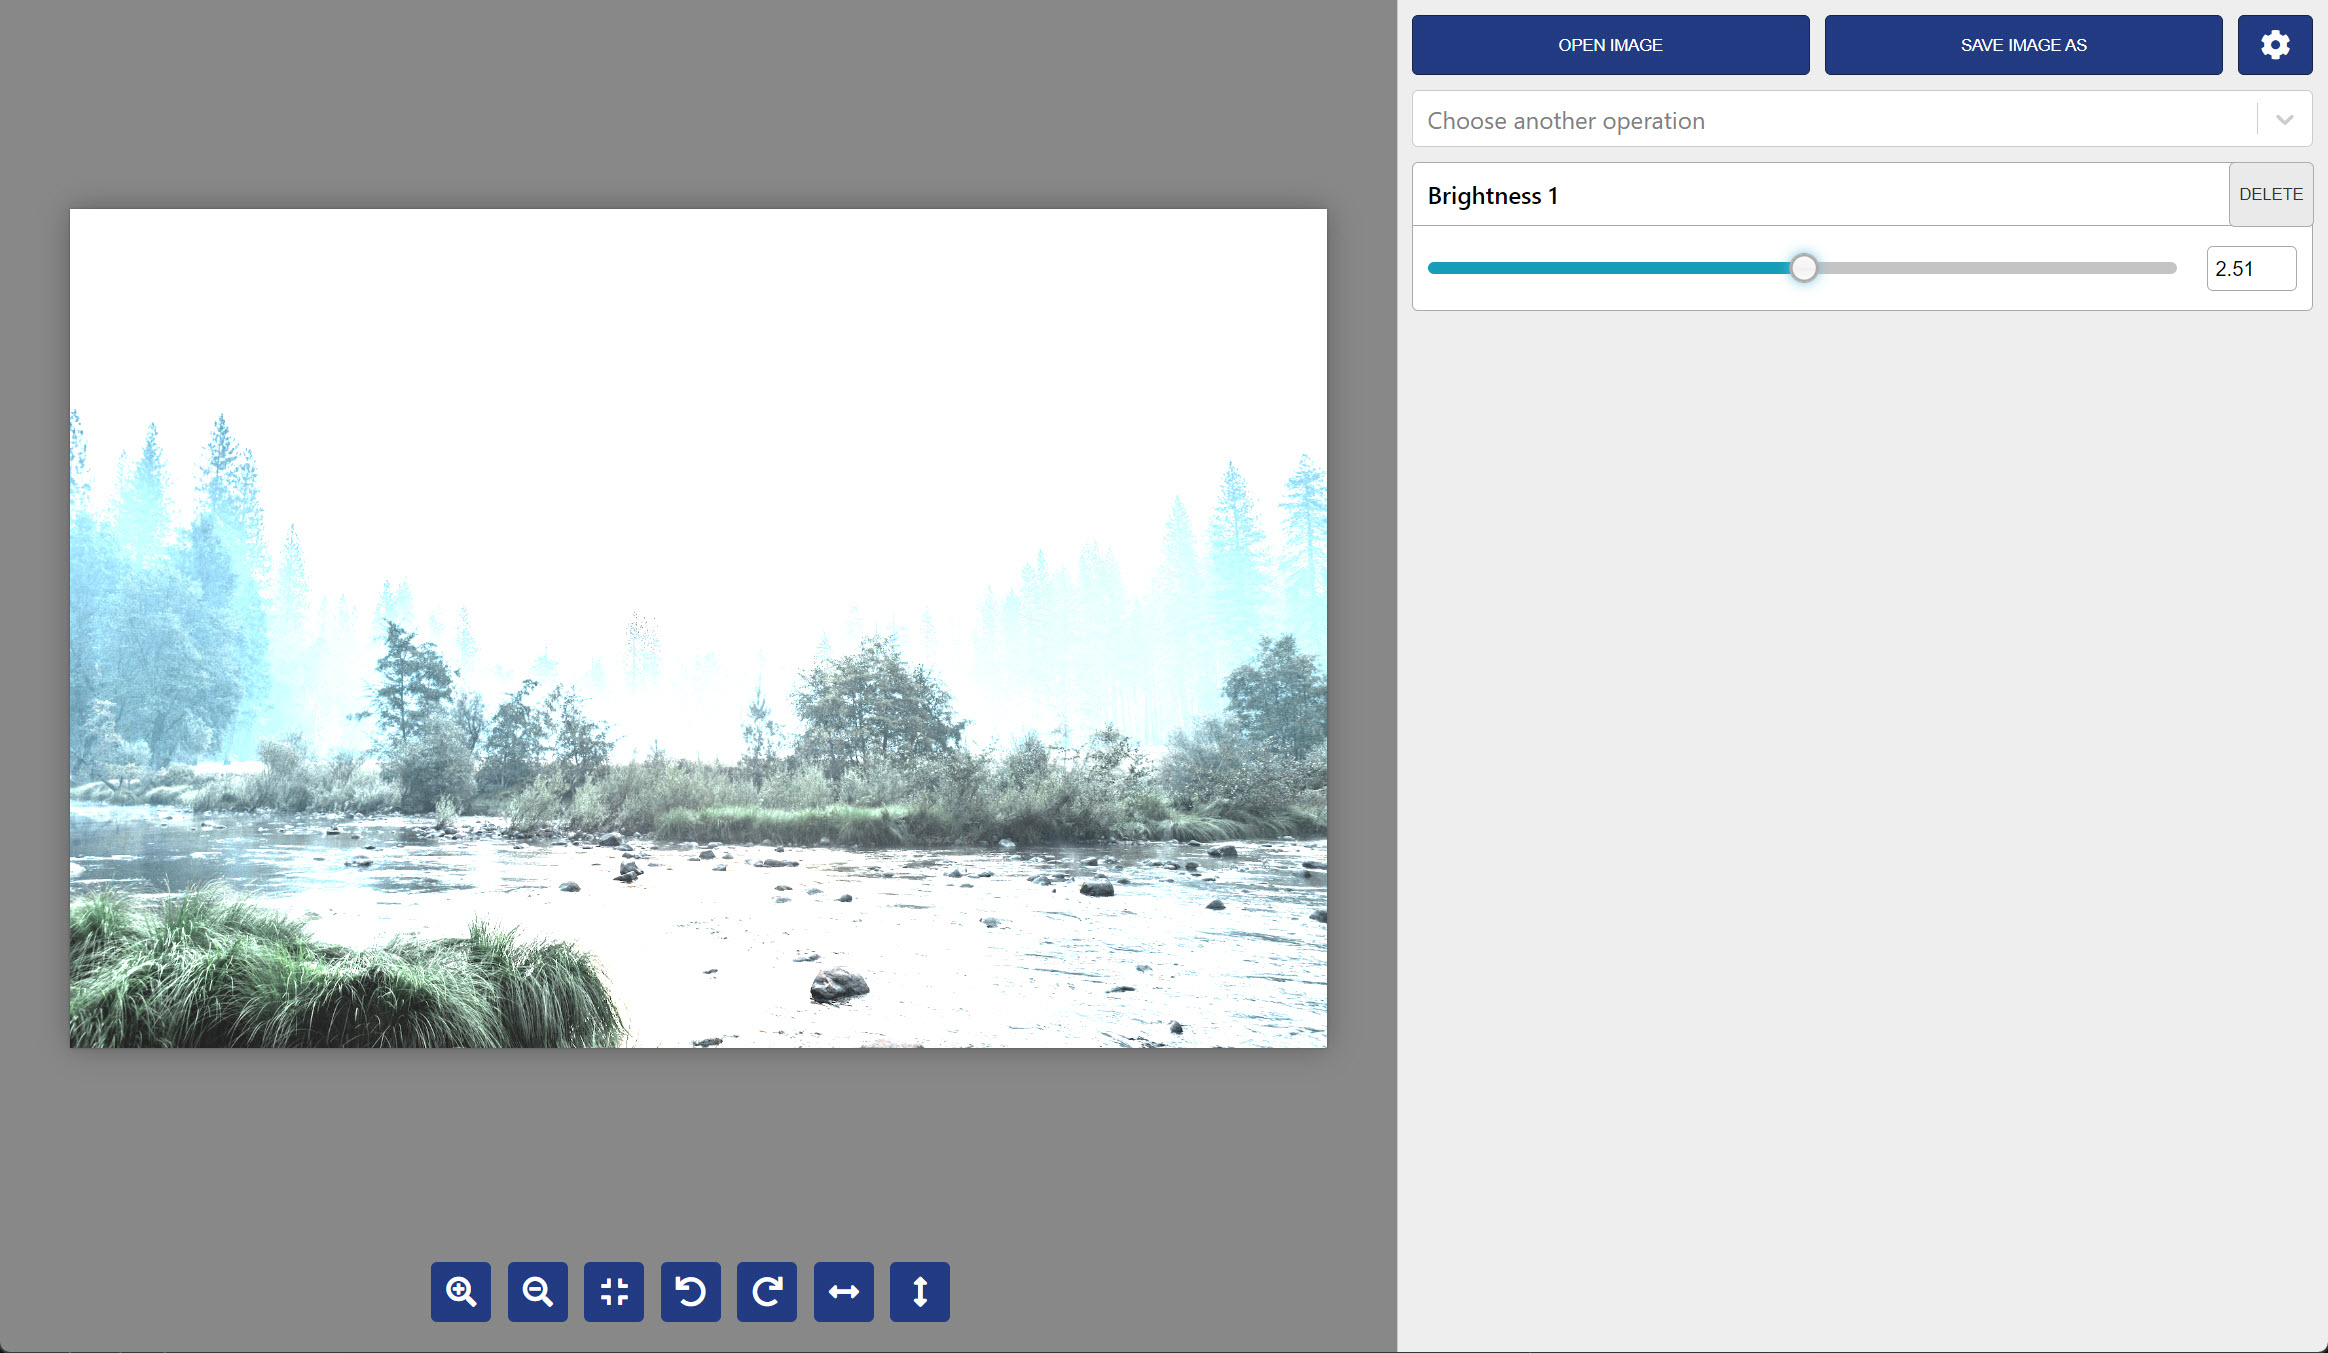
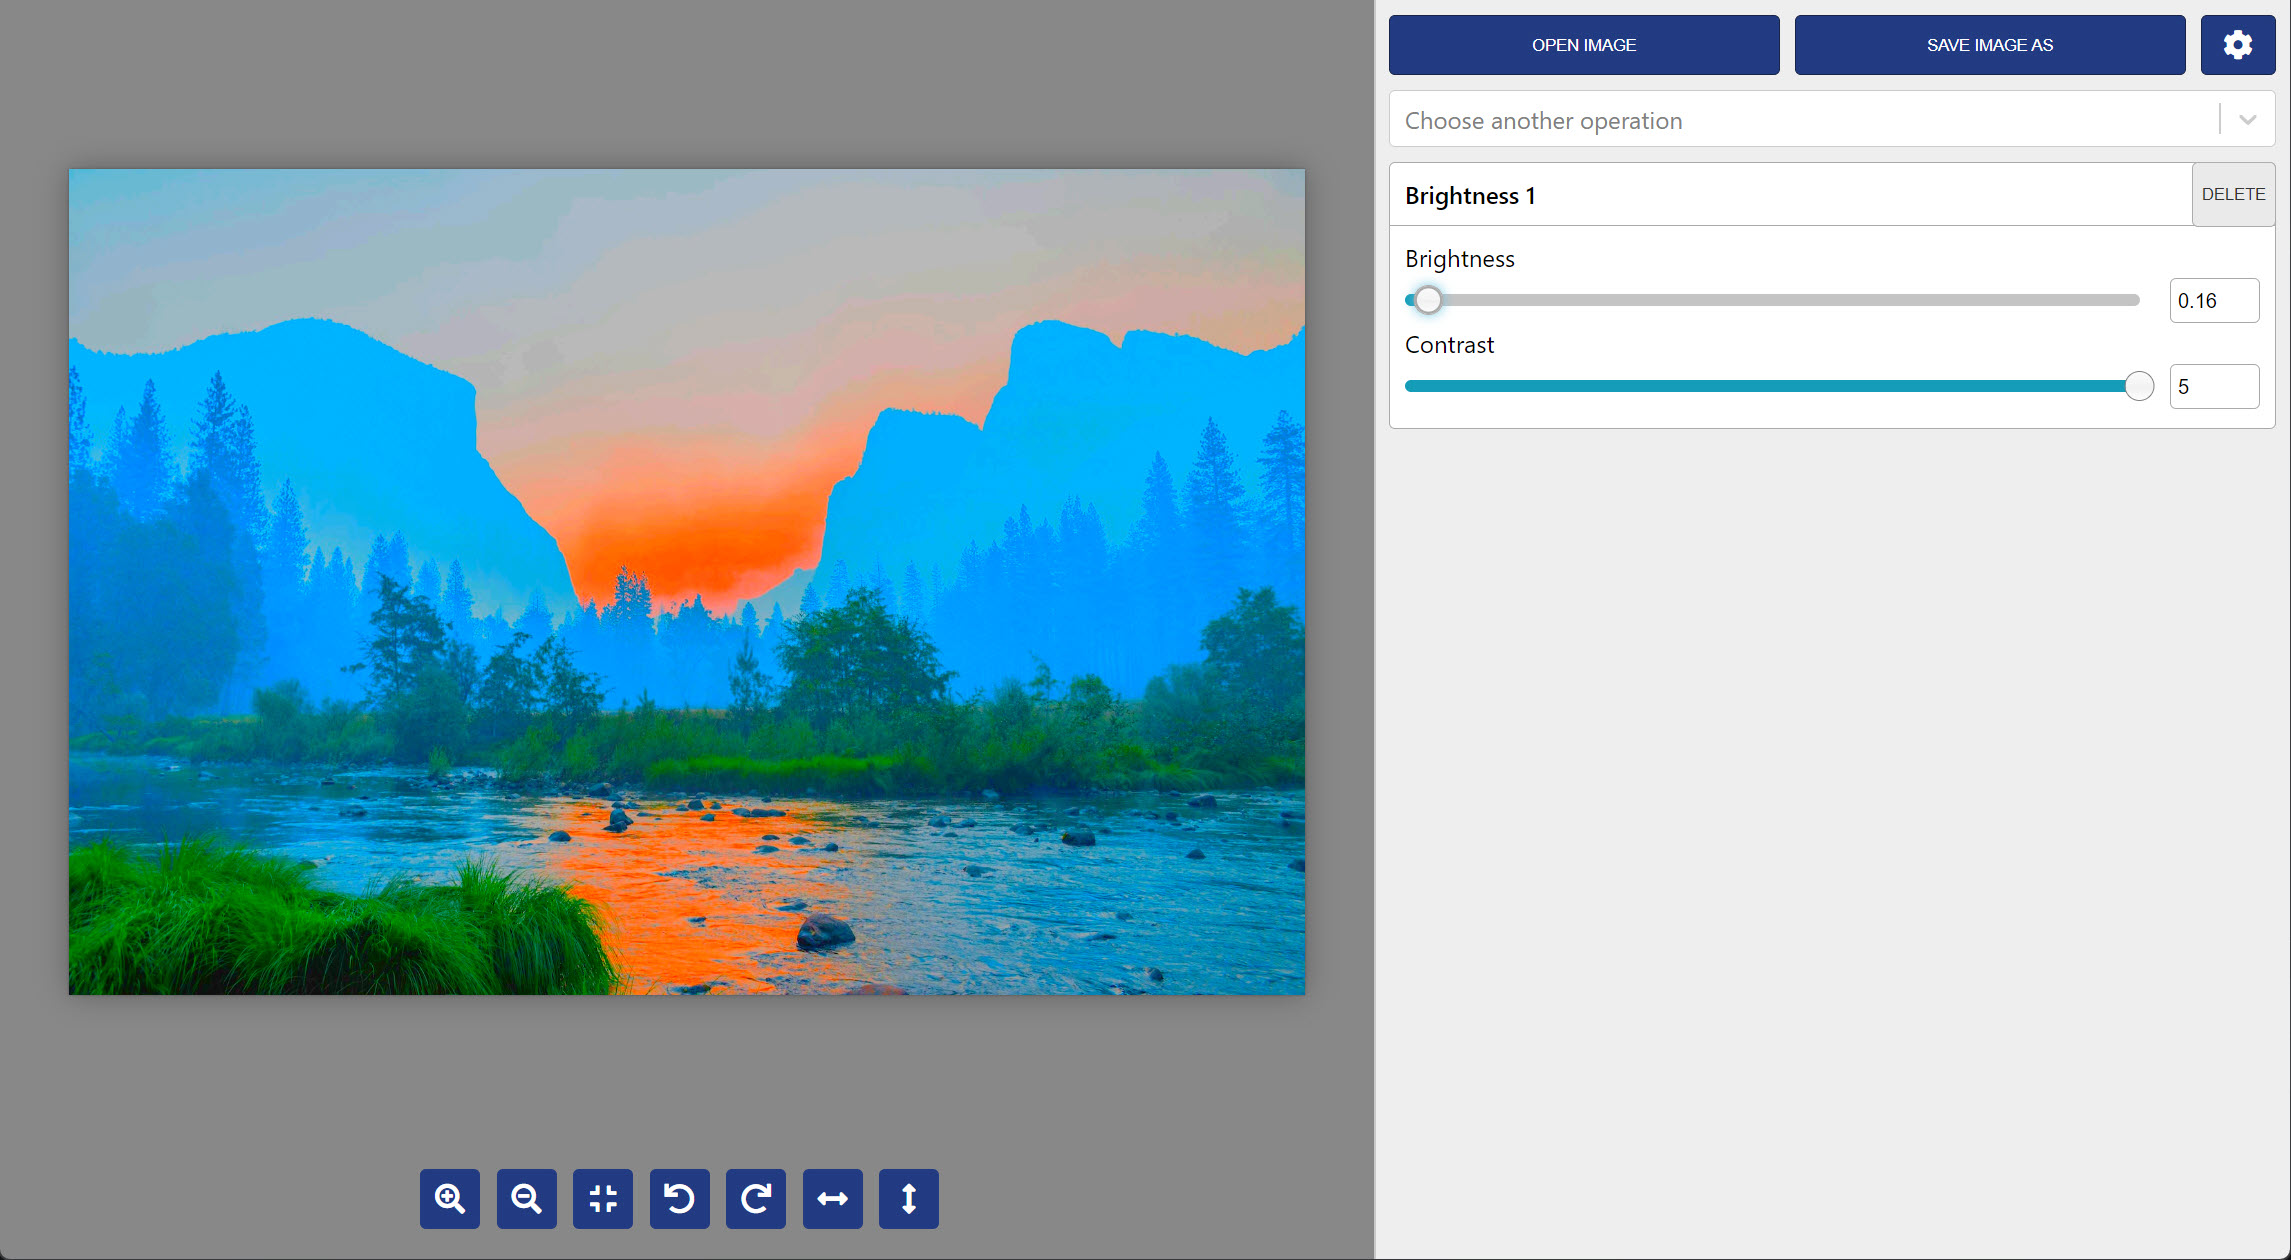
feat: add contrast option to brightness modifier

diff --git a/src/shared/modifications/Brightness/Brightness.tsx b/src/shared/modifications/Brightness/Brightness.tsx
@@ -4,25 +4,39 @@ import { MultiRange } from '../../../renderer/src/components/MultiRange/MultiRan
 import { ModificationProps } from '../types';
 
 import './Brightness.scss';
+import { useTranslation } from 'react-i18next';
 
 const Brightness: FunctionComponent<ModificationProps> = ({ onApply }) => {
+	const [t] = useTranslation();
 	const [brightness, setBrightness] = useState<number>(1.1);
+	const [contrast, setContrast] = useState<number>(1.1);
 
 	useEffect(() => {
 		onApply({
 			name: 'brightness',
-			arguments: [brightness],
+			arguments: [brightness, contrast],
 		});
-	}, [brightness]);
+	}, [brightness, contrast]);
 
 	return (
-		<MultiRange
-			min={0}
-			max={5}
-			step={0.01}
-			values={[brightness]}
-			onChange={(values: number[]) => setBrightness(values[0])}
-		/>
+		<>
+			<label>{t('shared/modifications/brightness/brightness___brightness')}</label>
+			<MultiRange
+				min={0}
+				max={5}
+				step={0.01}
+				values={[brightness]}
+				onChange={(values: number[]) => setBrightness(values[0])}
+			/>
+			<label>{t('shared/modifications/brightness/brightness___contrast')}</label>
+			<MultiRange
+				min={0}
+				max={5}
+				step={0.01}
+				values={[contrast]}
+				onChange={(values: number[]) => setContrast(values[0])}
+			/>
+		</>
 	);
 };
 

diff --git a/src/shared/modifications/Mirror/Mirror.tsx b/src/shared/modifications/Mirror/Mirror.tsx
@@ -23,16 +23,16 @@ const Mirror: FunctionComponent<ModificationProps> = ({ onApply }) => {
 			<Toggle
 				isChecked={isHorizontal}
 				onChange={setIsHorizontal}
-				label={t('Mirror horizontally')}
-				offLabel={t('No')}
-				onLabel={t('Yes')}
+				label={t('shared/modifications/mirror/mirror___mirror-horizontally')}
+				offLabel={t('shared/modifications/mirror/mirror___no')}
+				onLabel={t('shared/modifications/mirror/mirror___yes')}
 			/>
 			<Toggle
 				isChecked={isVertical}
 				onChange={setIsVertical}
-				label={t('Mirror Vertically')}
-				offLabel={t('No')}
-				onLabel={t('Yes')}
+				label={t('shared/modifications/mirror/mirror___mirror-vertically')}
+				offLabel={t('shared/modifications/mirror/mirror___no')}
+				onLabel={t('shared/modifications/mirror/mirror___yes')}
 			/>
 		</>
 	);

diff --git a/src/renderer/src/components/Toggle/Toggle.scss b/src/renderer/src/components/Toggle/Toggle.scss
@@ -31,7 +31,7 @@
 			right: 0;
 			bottom: 0;
 			background-color: #ccc;
-			transition: .3s;
+			transition: 0.3s;
 			border-radius: 34px;
 		}
 
@@ -43,17 +43,17 @@
 			left: 4px;
 			bottom: 4px;
 			background-color: white;
-			-webkit-transition: .4s;
-			transition: .4s;
+			-webkit-transition: 0.4s;
+			transition: 0.3s;
 			border-radius: 50%;
 		}
 
 		input:checked + .c-switch__toggle__slider {
-			background-color: #2196F3;
+			background-color: #2196f3;
 		}
 
 		input:focus + .c-switch__toggle__slider {
-			box-shadow: 0 0 1px #2196F3;
+			box-shadow: 0 0 1px #2196f3;
 		}
 
 		input:checked + .c-switch__toggle__slider:before {

diff --git a/src/shared/modifications/Brightness/modification.ts b/src/shared/modifications/Brightness/modification.ts
@@ -3,12 +3,18 @@ import { Sharp } from 'sharp';
 import ImageManager from '../image-manager';
 import { ImageInfo } from '../modifications';
 
-export function brightness(imageInfo: ImageInfo, brightness: number): Promise<Buffer> {
+export function brightness(
+	imageInfo: ImageInfo,
+	brightness: number,
+	contrast: number
+): Promise<Buffer> {
 	const sharp: Sharp = ImageManager.bufferToSharp(imageInfo.buffer);
 
-	const state = sharp.modulate({
-		brightness,
-	});
+	const state = sharp
+		.modulate({
+			brightness,
+		})
+		.linear(contrast, 0);
 
 	return ImageManager.sharpToBuffer(state);
 }

diff --git a/README.md b/README.md
@@ -5,23 +5,23 @@ A image editing program that is really easy to use.
 Current features:
 
 -   Upscale images (4x)
-		![screenshot of upscaled image](screenshots/07-upscale.jpg)
+    ![screenshot of upscaled image](screenshots/07-upscale.jpg)
 -   Add colored borders
-		![screenshot of colored border](screenshots/01-border.jpg)
+    ![screenshot of colored border](screenshots/01-border.jpg)
 -   Change the brightness
-		![screenshot of brightness](screenshots/02-brightness.jpg)
+    ![screenshot of brightness](screenshots/02-brightness.jpg)
 -   Add a sepia effect
-		![screenshot of sepia effect](screenshots/03-sepia.jpg)
+    ![screenshot of sepia effect](screenshots/03-sepia.jpg)
 -   Resize an image
-		![screenshot of resized image](screenshots/04-resize.jpg)
+    ![screenshot of resized image](screenshots/04-resize.jpg)
 -   Add colored text
-		![screenshot of colored text](screenshots/05-text.jpg)
+    ![screenshot of colored text](screenshots/05-text.jpg)
 -   Crop
-		![screenshot of cropped image](screenshots/06-crop.jpg)
+    ![screenshot of cropped image](screenshots/06-crop.jpg)
 -   Rotate
-		![screenshot of rotated image](screenshots/08-rotate.jpg)
+    ![screenshot of rotated image](screenshots/08-rotate.jpg)
 -   Mirror
-		![screenshot of vertically mirrored image](screenshots/09-mirror.jpg)
+    ![screenshot of vertically mirrored image](screenshots/09-mirror.jpg)
 
 Download: https://gitlab.com/bertyhell/grandshop/-/releases
 
